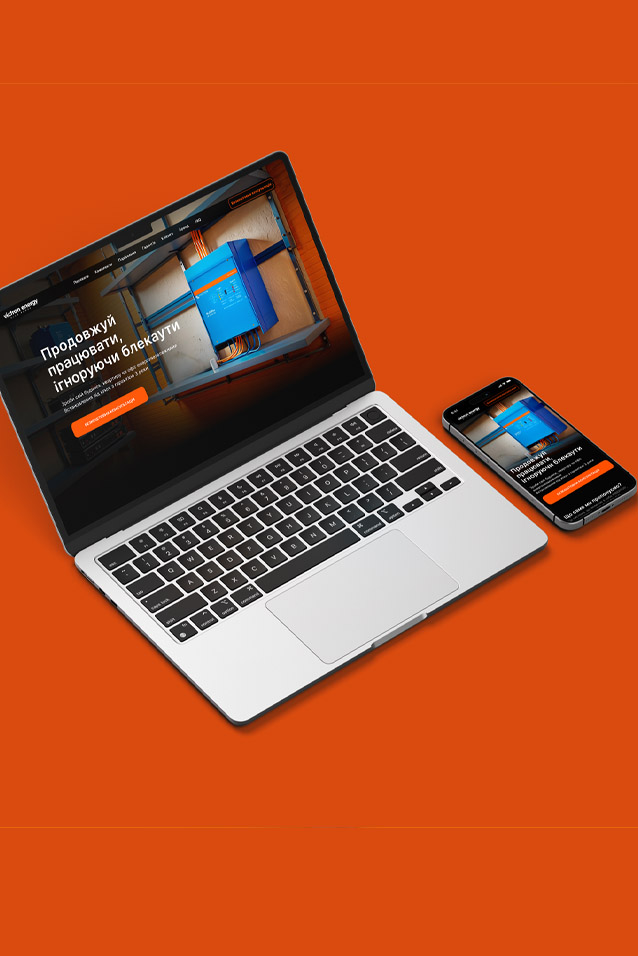
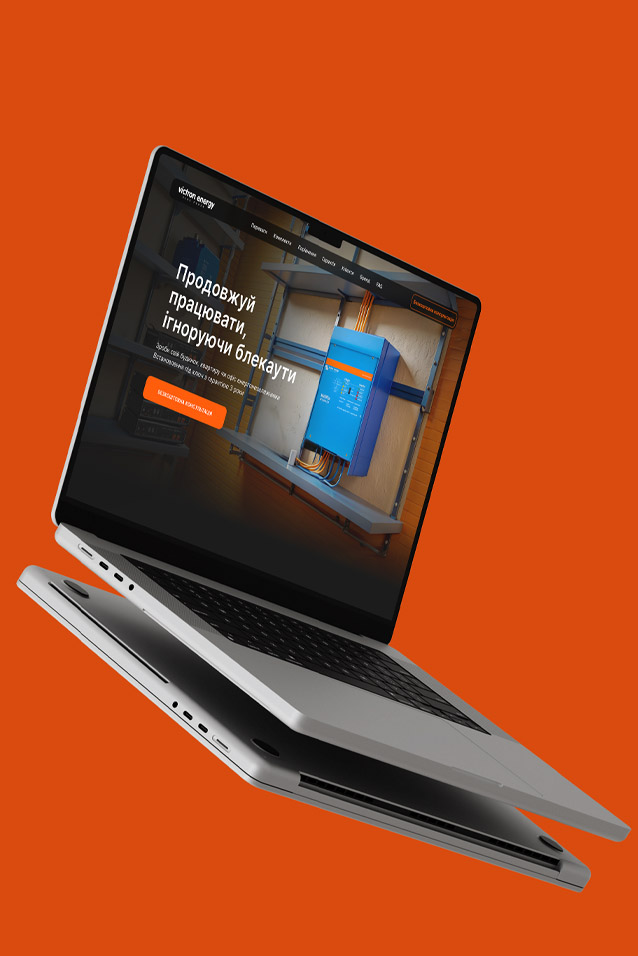
a

diff --git a/index17.html b/index17.html
@@ -298,7 +298,7 @@
             <div style="padding-bottom: 0px;" class="row justify-content-center">
               <div class="row justify-content-center">
                 <div class="col-8 mob_on_full">
-                  <picture><img id="img_back_DR_3" width="100%" src="img/maria_ver.jpg" alt=""></picture>
+                  <picture><img id="img_back_DR_3" width="100%" src="img/ivert_ver.jpg" alt=""></picture>
                 </div>
               </div>
               <div style="padding-bottom: 0px;" class="row">

diff --git a/css/style.css b/css/style.css
@@ -1727,7 +1727,7 @@ background: linear-gradient(0deg, rgba(255, 255, 255, 1) 0%, rgba(19, 80, 60, 1)
   background-color: #ffe800 !important;
 }
 .imgbox_inver{
-  background-color: #ce5112 !important;
+  background-color: #d94b0f !important;
 }
 .imgbox_maria img {
   width: 70% !important;

diff --git a/css/style.min.css b/css/style.min.css
@@ -1727,7 +1727,7 @@ Theme Name: Fybrid Studio
     background-color: #ffe800 !important;
   }
   .imgbox_inver{
-    background-color: #ce5112 !important;
+    background-color: #d94b0f !important;
   }
   .imgbox_maria img {
     width: 70% !important;
